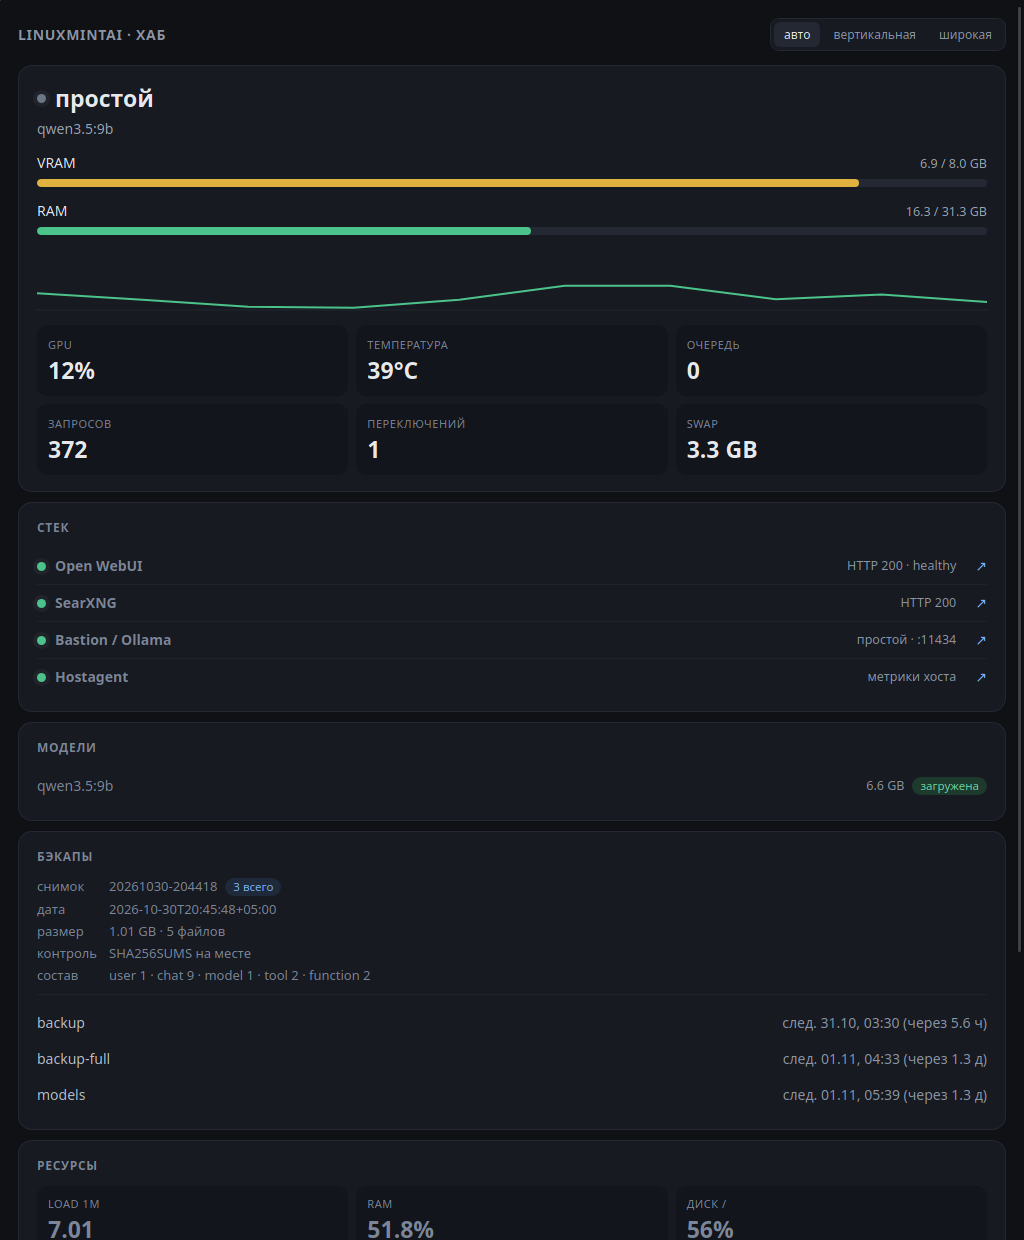
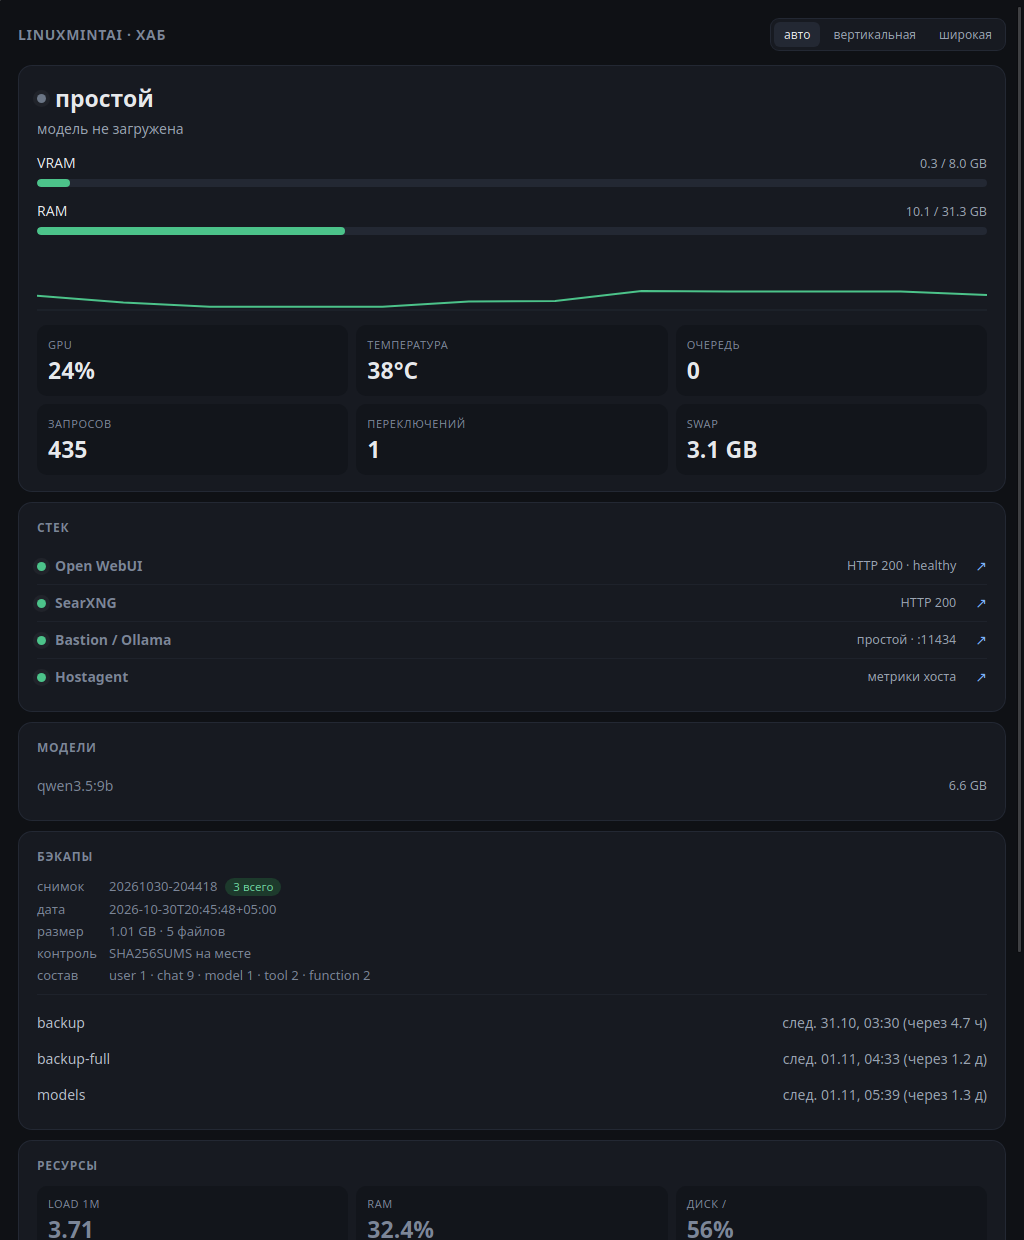
feat(monitor): свести хаб и desklet к единой палитре

diff --git a/monitor/desklet/desklet.js b/monitor/desklet/desklet.js
@@ -6,6 +6,18 @@ const Settings = imports.ui.settings;
 
 const STATUS_URL = "http://127.0.0.1:11436/api/text";
 
+// Токены :root из status_server.py и stylesheet.css. Цвета задаём inline:
+// тема Cinnamon перебивает color из stylesheet.css.
+const PALETTE = {
+    text: "#e6e8eb",
+    text2: "#b8bfcc",
+    muted: "#9aa4b2",
+    ghost: "#6b7686",
+    accent: "#4cc38a",
+    warn: "#e0b341",
+    bad: "#e5484d"
+};
+
 // GJS отдаёт байты curl как есть; String.fromCharCode трактует их как Latin-1,
 // поэтому UTF-8 (кириллица, «·», «°») декодируем вручную.
 function utf8(bytes) {
@@ -41,13 +53,36 @@ LmintaiDesklet.prototype = {
         this.settings.bind("interval", "interval", this._reschedule);
 
         this._box = new St.BoxLayout({ vertical: true, style_class: "lmintai-box" });
+
+        this._head = new St.BoxLayout({ vertical: false, style_class: "lmintai-head" });
+        this._dot = new St.Label({
+            text: "●",
+            style_class: "lmintai-dot",
+            style: "font-size: 10px; color: " + PALETTE.ghost + ";"
+        });
+        this._phase = new St.Label({
+            text: "",
+            style_class: "lmintai-phase",
+            style: "font-size: 13px; font-weight: bold; color: " + PALETTE.text + ";"
+        });
+        this._model = new St.Label({
+            text: "",
+            style_class: "lmintai-model",
+            style: "font-size: 12px; color: " + PALETTE.muted + ";"
+        });
+        this._head.add(this._dot);
+        this._head.add(this._phase);
+        this._head.add(this._model);
+        this._box.add(this._head);
+
         this._labels = [];
-        for (let i = 0; i < 4; i++) {
-            // Цвета задаём inline: тема Cinnamon перебивает color из stylesheet.css.
-            let style = i === 0
-                ? "font-size: 13px; font-weight: bold; color: #8b95a5; margin-bottom: 2px;"
-                : "font-size: 11px; color: #b8bfcb; font-family: 'DejaVu Sans Mono', monospace;";
-            let label = new St.Label({ text: "", style: style });
+        for (let i = 0; i < 3; i++) {
+            let label = new St.Label({
+                text: "",
+                style_class: "lmintai-line",
+                style: "font-size: 11px; color: " + PALETTE.text2 +
+                       "; font-family: 'DejaVu Sans Mono', monospace;"
+            });
             this._labels.push(label);
             this._box.add(label);
         }
@@ -80,21 +115,25 @@ LmintaiDesklet.prototype = {
             // сервер не запущен — оставляем подсказку
         }
         for (let i = 0; i < this._labels.length; i++) {
-            this._labels[i].set_text(lines[i] || "");
+            this._labels[i].set_text(lines[i + 1] || "");
         }
         this._colorize(lines[0] || "");
     },
 
     _colorize: function(head) {
-        let color = "#8b95a5";
+        let color = PALETTE.ghost;
         if (head.indexOf("загрузка") === 0 || head.indexOf("очередь") === 0) {
-            color = "#e0b341";
+            color = PALETTE.warn;
         } else if (head.indexOf("генерация") === 0) {
-            color = "#4cc38a";
+            color = PALETTE.accent;
         } else if (head.indexOf("bastion") === 0 || head.indexOf("нет данных") === 0) {
-            color = "#e5484d";
+            color = PALETTE.bad;
         }
-        this._labels[0].style = "font-size: 13px; font-weight: bold; margin-bottom: 2px; color: " + color + ";";
+        this._dot.style = "font-size: 10px; color: " + color + ";";
+
+        let sep = head.indexOf(" · ");
+        this._phase.set_text(sep >= 0 ? head.slice(0, sep) : head);
+        this._model.set_text(sep >= 0 ? head.slice(sep + 3) : "");
     },
 
     on_desklet_removed: function() {

diff --git a/monitor/desklet/stylesheet.css b/monitor/desklet/stylesheet.css
@@ -1,19 +1,24 @@
+/* Палитра — токены :root из status_server.py. GTK3 CSS не знает custom
+   properties, поэтому значения продублированы; менять синхронно. */
 .lmintai-box {
     padding: 12px 16px;
-    border-radius: 12px;
-    background-color: rgba(20, 22, 27, 0.92);
-    border: 1px solid rgba(255, 255, 255, 0.07);
+    border-radius: 14px;
+    background-color: rgba(23, 26, 33, 0.94);   /* --surface */
+    border: 1px solid rgba(35, 40, 51, 0.95);   /* --line */
 }
 
-.lmintai-phase {
-    font-size: 13px;
-    font-weight: bold;
-    color: #8b95a5;
-    padding-bottom: 2px;
+.lmintai-head {
+    spacing: 7px;
+    margin-bottom: 7px;
 }
+
+.lmintai-dot { font-size: 10px; color: #6b7686; }                        /* --ghost */
+.lmintai-phase { font-size: 13px; font-weight: bold; color: #e6e8eb; }   /* --text */
+.lmintai-model { font-size: 12px; color: #9aa4b2; }                      /* --muted */
 
 .lmintai-line {
     font-size: 11px;
-    color: #b8bfcb;
+    color: #b8bfcc;                                                      /* --text-2 */
     font-family: "DejaVu Sans Mono", monospace;
+    margin-top: 2px;
 }

diff --git a/monitor/status_server.py b/monitor/status_server.py
@@ -420,66 +420,73 @@ PAGE = """<!doctype html>
 <title>linuxmintai · хаб</title>
 <meta name="viewport" content="width=device-width,initial-scale=1">
 <style>
- :root { color-scheme: dark; }
+ :root {
+   color-scheme: dark;
+   --bg:#0f1115; --surface:#171a21; --sunken:#12151b;
+   --line:#232833; --line-soft:#1e222b;
+   --text:#e6e8eb; --text-2:#b8bfcc; --muted:#9aa4b2; --faint:#7c8698; --ghost:#6b7686;
+   --accent:#4cc38a; --accent-ink:#6fd7a1; --accent-bg:#1d3a2c;
+   --warn:#e0b341; --bad:#e5484d; --link:#7cb3ff;
+ }
  * { box-sizing: border-box; }
- body { margin:0; background:#0f1115; color:#e6e8eb;
+ body { margin:0; background:var(--bg); color:var(--text);
         font:14px/1.45 "Segoe UI", system-ui, sans-serif; }
  .wrap { margin:0 auto; }
  header { display:flex; align-items:center; gap:12px; padding:18px 0 14px; }
  h1 { font-size:14px; font-weight:600; letter-spacing:.05em; text-transform:uppercase;
-      color:#8b95a5; margin:0; }
+      color:var(--faint); margin:0; }
  h2 { font-size:12px; font-weight:600; letter-spacing:.06em; text-transform:uppercase;
-      color:#7c8698; margin:0 0 12px; }
- .switch { margin-left:auto; display:flex; gap:3px; background:#171a21;
-           border:1px solid #232833; border-radius:9px; padding:3px; }
- .switch a { color:#8b95a5; text-decoration:none; font-size:12px; padding:4px 10px;
+      color:var(--faint); margin:0 0 12px; }
+ .switch { margin-left:auto; display:flex; gap:3px; background:var(--surface);
+           border:1px solid var(--line); border-radius:9px; padding:3px; }
+ .switch a { color:var(--muted); text-decoration:none; font-size:12px; padding:4px 10px;
              border-radius:6px; white-space:nowrap; }
- .switch a.on { background:#232833; color:#e6e8eb; }
- .card { background:#171a21; border:1px solid #232833; border-radius:14px;
+ .switch a.on { background:var(--line); color:var(--text); }
+ .card { background:var(--surface); border:1px solid var(--line); border-radius:14px;
          padding:16px 18px; }
  .phase { display:flex; align-items:center; gap:9px; font-size:20px; font-weight:600; }
- .dot, .sdot { width:9px; height:9px; border-radius:50%; background:#6b7686;
+ .dot, .sdot { width:9px; height:9px; border-radius:50%; background:var(--ghost);
         box-shadow:0 0 0 4px rgba(255,255,255,.04); flex:none; }
- .sdot.ok { background:#4cc38a; }
- .sdot.bad { background:#e5484d; }
- .model { color:#9aa4b2; font-size:13.5px; margin-top:4px; }
+ .sdot.ok { background:var(--accent); }
+ .sdot.bad { background:var(--bad); }
+ .model { color:var(--muted); font-size:13.5px; margin-top:4px; }
  .row { display:flex; justify-content:space-between; align-items:baseline;
         margin:14px 0 6px; font-variant-numeric:tabular-nums; }
- .row span:last-child { color:#9aa4b2; font-size:12.5px; }
- .bar { height:8px; background:#232833; border-radius:6px; overflow:hidden; }
+ .row span:last-child { color:var(--muted); font-size:12.5px; }
+ .bar { height:8px; background:var(--line); border-radius:6px; overflow:hidden; }
  .fill { height:100%; width:0; border-radius:6px; transition:width .35s ease; }
  .metrics { display:grid; gap:8px; margin-top:14px; }
  .grid { display:grid; grid-template-columns:repeat(3,1fr); gap:8px; }
- .metric { background:#12151b; border-radius:10px; padding:9px 11px; }
+ .metric { background:var(--sunken); border-radius:10px; padding:9px 11px; }
  .metric b { display:block; font-size:20px; font-weight:600; font-variant-numeric:tabular-nums;
              white-space:nowrap; }
- .metric i { font-style:normal; color:#7c8698; font-size:11px; text-transform:uppercase;
+ .metric i { font-style:normal; color:var(--faint); font-size:11px; text-transform:uppercase;
              letter-spacing:.05em; }
- .foot { display:flex; justify-content:space-between; color:#6b7686; font-size:12px;
+ .foot { display:flex; justify-content:space-between; color:var(--ghost); font-size:12px;
          padding:10px 2px 0; }
  canvas { width:100%; height:56px; display:block; margin-top:12px; }
  .svc, .mrow, .trow { display:flex; align-items:center; gap:9px;
-        padding:7px 0; border-bottom:1px solid #1e222b; }
+        padding:7px 0; border-bottom:1px solid var(--line-soft); }
  .svc:last-child, .mrow:last-child, .trow:last-child { border-bottom:0; }
  .sname { font-weight:600; }
- .sdet { color:#8b95a5; font-size:12.5px; margin-left:auto; text-align:right; }
- .svc a, .links a { color:#7cb3ff; text-decoration:none; }
+ .sdet { color:var(--muted); font-size:12.5px; margin-left:auto; text-align:right; }
+ .svc a, .links a { color:var(--link); text-decoration:none; }
  .svc a { margin-left:10px; }
- .mmeta { margin-left:auto; color:#8b95a5; font-size:12.5px; }
+ .mmeta { margin-left:auto; color:var(--muted); font-size:12.5px; }
  .badge { display:inline-block; padding:1px 8px; border-radius:20px; font-size:11.5px;
-          background:#1d3a2c; color:#6fd7a1; margin-left:8px; }
+          background:var(--accent-bg); color:var(--accent-ink); margin-left:8px; }
  .kv { display:grid; grid-template-columns:auto 1fr; gap:4px 12px; font-size:13px; }
- .kv i { font-style:normal; color:#7c8698; }
- .muted { color:#7c8698; font-size:12.5px; }
- .timer { margin-top:10px; padding-top:10px; border-top:1px solid #1e222b; }
+ .kv i { font-style:normal; color:var(--faint); }
+ .muted { color:var(--faint); font-size:12.5px; }
+ .timer { margin-top:10px; padding-top:10px; border-top:1px solid var(--line-soft); }
  .trow { font-size:12.5px; padding:4px 0; border-bottom:0; }
- .trow span:first-child { color:#b6bfcc; }
- .trow span:last-child { margin-left:auto; color:#8b95a5; }
+ .trow span:first-child { color:var(--text-2); }
+ .trow span:last-child { margin-left:auto; color:var(--muted); }
  .links { display:flex; gap:10px; flex-wrap:wrap; }
- .links a { background:#12151b; border:1px solid #232833; border-radius:10px;
+ .links a { background:var(--sunken); border:1px solid var(--line); border-radius:10px;
             padding:9px 12px; }
- .warn { color:#e0b341; font-size:12.5px; }
- .bad { color:#e5484d; }
+ .warn { color:var(--warn); font-size:12.5px; }
+ .bad { color:var(--bad); }
 
  /* v1 — вертикальная вёрстка под портретный экран 1024×1280 */
  .v1 .wrap { max-width:1024px; padding:0 18px 24px; }
@@ -555,12 +562,19 @@ PAGE = """<!doctype html>
  <div class="foot"><span id="stall"></span><span id="age"></span></div>
 </div>
 <script>
+// canvas и JS не подставляют CSS-переменные сами — снимаем токены из :root один раз
+const TOKENS = (() => {
+  const cs = getComputedStyle(document.documentElement);
+  const get = n => cs.getPropertyValue(n).trim();
+  return { accent: get("--accent"), warn: get("--warn"), bad: get("--bad"),
+           ghost: get("--ghost"), line: get("--line") };
+})();
 const COLORS = {
-  idle:       ["#6b7686", "простой"],
-  generating: ["#4cc38a", "генерация"],
-  loading:    ["#e0b341", "загрузка модели"],
-  queued:     ["#e0b341", "ожидание в очереди"],
-  offline:    ["#e5484d", "bastion недоступен"]
+  idle:       [TOKENS.ghost, "простой"],
+  generating: [TOKENS.accent, "генерация"],
+  loading:    [TOKENS.warn, "загрузка модели"],
+  queued:     [TOKENS.warn, "ожидание в очереди"],
+  offline:    [TOKENS.bad, "bastion недоступен"]
 };
 const history = [];
 const $ = id => document.getElementById(id);
@@ -593,7 +607,7 @@ function fmtUptime(sec) {
 }
 function bar(el, ratio, warn, bad) {
   el.style.width = Math.max(0, Math.min(100, ratio * 100)) + "%";
-  el.style.background = ratio > .92 ? "#e5484d" : ratio > .8 ? "#e0b341" : "#4cc38a";
+  el.style.background = ratio > .92 ? TOKENS.bad : ratio > .8 ? TOKENS.warn : TOKENS.accent;
 }
 function spark() {
   const c = $("spark"), ctx = c.getContext("2d");
@@ -604,7 +618,7 @@ function spark() {
   }
   ctx.setTransform(dpr, 0, 0, dpr, 0, 0);
   ctx.clearRect(0, 0, w, h);
-  ctx.strokeStyle = "#232833"; ctx.lineWidth = 1;
+  ctx.strokeStyle = TOKENS.line; ctx.lineWidth = 1;
   ctx.beginPath(); ctx.moveTo(0, h - 1); ctx.lineTo(w, h - 1); ctx.stroke();
   if (history.length < 2) return;
   ctx.beginPath();
@@ -613,7 +627,7 @@ function spark() {
     const y = h - 2 - (v / 100) * (h - 6);
     i ? ctx.lineTo(x, y) : ctx.moveTo(x, y);
   });
-  ctx.strokeStyle = "#4cc38a"; ctx.lineWidth = 2; ctx.stroke();
+  ctx.strokeStyle = TOKENS.accent; ctx.lineWidth = 2; ctx.stroke();
 }
 function render(s) {
   const [color, label] = COLORS[s.phase] || COLORS.idle;
@@ -666,7 +680,7 @@ function renderHub(d) {
       .filter(k => c[k] != null).map(k => `${k} ${c[k]}`).join(" · ");
     let html = `<div class="kv">` +
       `<i>снимок</i><span>${esc(b.latest)}` +
-      `<span class="badge" style="background:#1e2a3a;color:#7cb3ff">${b.runs} всего</span></span>` +
+      `<span class="badge">${b.runs} всего</span></span>` +
       `<i>дата</i><span>${esc(b.date || "—")}</span>` +
       `<i>размер</i><span>${fmtSize(b.size_bytes)} · ${b.files} файлов</span>` +
       `<i>контроль</i><span class="${b.sums ? "" : "warn"}">` +

diff --git a/PROMPT.md b/PROMPT.md
@@ -274,6 +274,7 @@ curl -s http://127.0.0.1:11436/api/text
 - у bastion НЕТ CORS-заголовков: браузерная страница с :3000 не может читать :11434 напрямую, поэтому панель опрашивает bastion на сервере, а desklet читает `/api/text` через curl;
 - Cinnamon кэширует JS-модуль desklet'а: после правки `desklet.js` нужен `cinnamon --replace` (окна приложений сохраняются);
 - GJS трактует байты curl как Latin-1: в `desklet.js` есть ручной UTF-8 декодер, иначе кириллица превращается в `Ð¾ÑÐµÑ€ÐµÐ´Ñ`;
-- тема Cinnamon перебивает `color` из `stylesheet.css` — цвета текста заданы inline.
+- тема Cinnamon перебивает `color` из `stylesheet.css` — цвета текста заданы inline;
+- палитра общая: токены `:root` в `status_server.py`, те же значения — в `desklet/stylesheet.css` и `PALETTE` в `desklet.js`; GTK3 CSS не знает custom properties, поэтому синхронизировать вручную.
 
 Финальная проверка: `bastion --validate` (0 failed), `curl -s localhost:11434/broker/status | python3 -m json.tool` (живая телеметрия), при установленной панели `curl -s localhost:11436/api/status`, прогон `agent_demo.py` с корректной строкой модели, `earlyoom` активен (`systemctl status earlyoom`). Сообщи статус каждого компонента и результат тестового вызова.

diff --git a/README.md b/README.md
@@ -139,6 +139,8 @@ Read-only панель на `127.0.0.1:11436`: живые метрики раз 
 
 **Desklet Cinnamon** читает `/api/text` каждые 2 секунды (интервал меняется в настройках): ПКМ по рабочему столу → **Desklets** → «linuxmintai · состояние». После правки `desklet.js` оболочку нужно перезапустить: `cinnamon --replace`.
 
+Палитра общая: токены `:root` в `status_server.py` и те же значения в `monitor/desklet/stylesheet.css` — фон, карточки, текст, акцент и сигнальные цвета у панели и desklet совпадают.
+
 Исходники: [`monitor/status_server.py`](monitor/status_server.py) (stdlib, без зависимостей), [`monitor/hub_app.py`](monitor/hub_app.py), [`monitor/lmintai-hub.desktop`](monitor/lmintai-hub.desktop), [`monitor/desklet/`](monitor/desklet/).
 
 ## Агент
